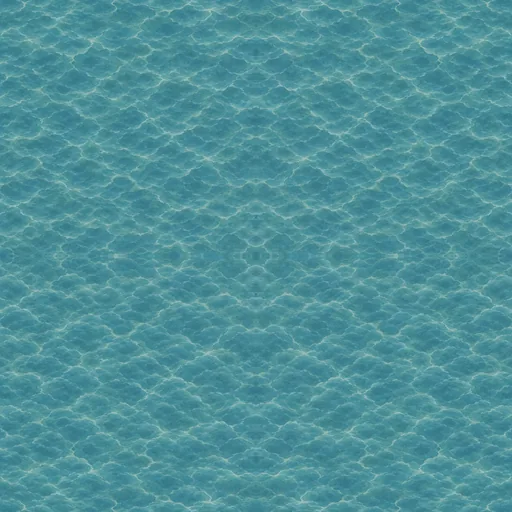
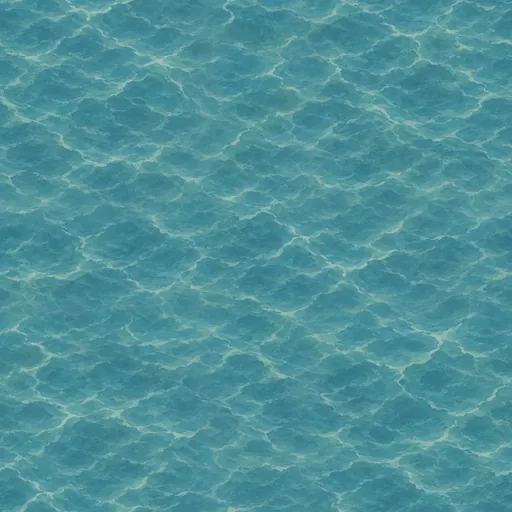
Map: clickable city images and text-sized labels on the admin map, team-colour outline instead of a ring, deed markers further along the side, sea tiles without visible repetition
Claude-Session: https://claude.ai/code/session_01GYZTpVpHB6EzyvMrXyiWEP

Changed region(s): [[0.0, 0.0, 1.0, 1.0]]

diff --git a/apps/web/src/pages/AdminMap.tsx b/apps/web/src/pages/AdminMap.tsx
@@ -1,7 +1,7 @@
 import { useCallback, useEffect, useMemo, useState } from "react";
 import { BOOKS } from "@lotw/domain";
 import { HEX_SIZE, fieldBounds, nodePos, TEAM_COLORS } from "../lib/hexmap";
-import { CoastOver, CoastUnder, HexTiles, IMG, SeaLayer, WorldSvg, useCoast } from "./MapLayers";
+import { CoastOver, CoastUnder, HexTiles, IMG, OutlineDefs, SeaLayer, WorldSvg, useCoast } from "./MapLayers";
 import { useViewport } from "../lib/useViewport";
 import { reportPage } from "../lib/perf";
 import { api, ApiError, type AdminCityDto, type MapEdgeDto, type MapHexDto, type MapNodeDto, type MyMapDto } from "../lib/api";
@@ -90,6 +90,7 @@ export function AdminMap({ gameId, hexes, nodes, edges, progress, cities, battle
         <div ref={vp.ref} {...vp.handlers} className="mapwrap">
           <SeaLayer vp={vp} />
           <WorldSvg vp={vp} bounds={bounds}>
+            <OutlineDefs colors={[...new Set((progress ?? []).map((tm) => tm.color))]} />
             <CoastUnder d={coast} size={size} />
             <HexTiles hexes={hexes} size={size} clipId="hexclip-admin" />
             <CoastOver d={coast} size={size} />
@@ -99,10 +100,10 @@ export function AdminMap({ gameId, hexes, nodes, edges, progress, cities, battle
               if (n.kind === "START") return <image key={"s" + n.key} href={IMG.start(n.teamIndex ?? 0)} x={p.x - START / 2} y={p.y - START * 0.58} width={START} height={START} />;
               if (n.kind === "CITY") {
                 const owner = ownerOf.get(n.key);
+                // Картинка города кликабельна сама (как у команды); владелец — обводка по контуру картинки цветом команды.
                 return (
-                  <g key={"c" + n.key}>
-                    {owner && <circle className="owner-ring" cx={p.x} cy={p.y - CITY * 0.1} r={CITY * 0.62} fill={owner.color} fillOpacity={0.35} stroke={owner.color} />}
-                    <image href={IMG.city(n.cityType)} x={p.x - CITY / 2} y={p.y - CITY * 0.6} width={CITY} height={CITY} />
+                  <g key={"c" + n.key} className="pick" onClick={() => { if (!vp.wasDrag()) setSelected(n); }}>
+                    <image className="city-hit" href={IMG.city(n.cityType)} x={p.x - CITY / 2} y={p.y - CITY * 0.6} width={CITY} height={CITY} filter={owner ? `url(#outline-${owner.color.slice(1)})` : undefined} />
                   </g>
                 );
               }
@@ -128,19 +129,23 @@ export function AdminMap({ gameId, hexes, nodes, edges, progress, cities, battle
                 const pick = () => { if (!vp.wasDrag()) setSelected(n); };
                 const at = `translate(${raw.x},${raw.y}) scale(${inv})`;
                 if (n.kind === "START") { const tm = progress?.find((x) => x.startNodeKey === n.key); const color = tm?.color ?? TEAM_COLORS[(n.teamIndex ?? 0) % TEAM_COLORS.length]!; return <g key={n.key} className="pick" transform={at} onClick={pick}><circle className="hit" r={14} fill="transparent" /><circle r={6} fill={color} stroke="var(--surface)" strokeWidth={2} /></g>; }
-                if (n.kind === "CITY") return (
+                if (n.kind === "CITY") {
+                  const label = `${book?.order}. ${book?.nameRu ?? ""}`;
+                  const lw = Math.ceil(label.length * 11 * 0.62) + 16;
+                  return (
                   <g key={n.key} className="pick" transform={at} onClick={pick}>
-                    <circle className="hit" r={Math.max(14, size * 0.6 * kk)} fill="transparent" />
+                    <circle className="hit" r={Math.max(14, size * 0.65 * kk) / ui} cy={-size * 0.1 * kk / ui} fill="transparent" />
                     {battleAt.has(n.key) && <circle className="quiet" r={size * 0.8 * kk} fill="none" stroke="var(--danger)" strokeWidth={3} strokeDasharray="6 4" />}
                     {showLabels ? (
                       <g className="quiet" transform={`translate(0,${size * 1.15 * kk * 0.48 / ui})`}>
-                        <rect x={-48} y={-10} width={96} height={20} rx={4} fill={sel ? "var(--accent)" : "var(--map-paper)"} stroke="var(--text)" strokeWidth={1} />
-                        <text textAnchor="middle" dy="0.35em" fontSize={11} fontWeight={700} fill={sel ? "var(--on-accent)" : "var(--text)"}>{book?.order}. {book?.nameRu}</text>
+                        <rect x={-lw / 2} y={-10} width={lw} height={20} rx={10} fill={sel ? "var(--accent)" : "var(--map-paper)"} stroke="var(--text)" strokeWidth={1} />
+                        <text textAnchor="middle" dy="0.35em" fontSize={11} fontWeight={700} fill={sel ? "var(--on-accent)" : "var(--text)"}>{label}</text>
                       </g>
                     ) : <g className="quiet"><circle r={8} fill={sel ? "var(--accent)" : "var(--surface)"} stroke="var(--text)" strokeWidth={1} /><text textAnchor="middle" dy="0.35em" fontSize={9} fontWeight={700} fill={sel ? "var(--on-accent)" : "var(--text)"}>{book?.order}</text></g>}
                     {seen.map((tm, i) => <circle key={tm.id} className="quiet" cx={14 - i * 9} cy={-14} r={4.5} fill={tm.color} stroke="var(--surface)" strokeWidth={1} />)}
                   </g>
-                );
+                  );
+                }
                 if (!showDots) return null;
                 return <g key={n.key} className="pick" transform={at} onClick={pick}><circle className="hit" r={12} fill="transparent" /><circle r={3} fill="rgba(31,27,22,.4)" />{seen.map((tm, i) => <circle key={tm.id} cx={8 - i * 7} cy={-8} r={3.5} fill={tm.color} stroke="var(--surface)" strokeWidth={0.8} />)}</g>;
               })}

diff --git a/apps/web/src/pages/TeamMap.tsx b/apps/web/src/pages/TeamMap.tsx
@@ -4,7 +4,7 @@ import { BOOKS } from "@lotw/domain";
 import { HEX_SIZE, fieldBounds, nodePos } from "../lib/hexmap";
 import { useViewport } from "../lib/useViewport";
 import type { EdgeTaskStatus, MyMapDto } from "../lib/api";
-import { CoastOver, CoastUnder, FogLayer, HexTiles, IMG, MapSymbols, SeaLayer, WorldSvg, useCoast } from "./MapLayers";
+import { CoastOver, CoastUnder, FogLayer, HexTiles, IMG, MapSymbols, OutlineDefs, SeaLayer, WorldSvg, useCoast } from "./MapLayers";
 import { Icon } from "../components/Icon";
 import { t } from "../lib/i18n";
 
@@ -39,6 +39,7 @@ export function TeamMap({ map, teamIndex, selectedTaskId, onSelect, onSelectCity
   const [ripple, setRipple] = useState<{ x: number; y: number; n: number } | null>(null);
   useEffect(() => { reportPage("map"); }, []);
   const coast = useCoast(map.hexes, size);
+  const owners = useMemo(() => [...new Set((map.cities ?? []).flatMap((c) => (c.owner ? [c.owner.color] : [])))], [map.cities]);
   const fogHexes = useMemo(() => map.hexes.filter((h) => h.lit === false), [map.hexes]);
 
   if (!bounds) return null;
@@ -66,6 +67,7 @@ export function TeamMap({ map, teamIndex, selectedTaskId, onSelect, onSelectCity
       <SeaLayer vp={vp} />
       <WorldSvg vp={vp} bounds={bounds}>
         <MapSymbols />
+        <OutlineDefs colors={owners} />
         <CoastUnder d={coast} size={size} />
         <HexTiles hexes={map.hexes} size={size} clipId="hexclip-team" />
         <CoastOver d={coast} size={size} />
@@ -90,8 +92,7 @@ export function TeamMap({ map, teamIndex, selectedTaskId, onSelect, onSelectCity
             const c = cityByKey.get(n.key);
             return (
               <g key={"c" + n.key} className="m-city" onClick={() => clickCity(n.key)}>
-                {c?.owner && <circle className="owner-ring" cx={p.x} cy={p.y - CITY * 0.1} r={CITY * 0.62} fill={c.owner.color} fillOpacity={0.35} stroke={c.owner.color} />}
-                <image className="city-hit" href={IMG.city(n.cityType)} x={p.x - CITY / 2} y={p.y - CITY * 0.6} width={CITY} height={CITY} />
+                <image className="city-hit" href={IMG.city(n.cityType)} x={p.x - CITY / 2} y={p.y - CITY * 0.6} width={CITY} height={CITY} filter={c?.owner ? `url(#outline-${c.owner.color.slice(1)})` : undefined} />
               </g>
             );
           }
@@ -145,8 +146,9 @@ export function TeamMap({ map, teamIndex, selectedTaskId, onSelect, onSelectCity
             const tk = taskByEdge.get([e.aKey, e.bKey].sort().join("|"));
             if (!tk || tk.status === "APPROVED") return null;
             const a = positions.get(e.aKey)!, b = positions.get(e.bKey)!;
-            const m = { x: (a.x + b.x) / 2, y: (a.y + b.y) / 2 };
-            const far = revealed.has(e.aKey) ? b : a;
+            // Метка дела стоит на двух третях стороны от известного перекрёстка, чтобы не наезжать на город.
+            const far = revealed.has(e.aKey) ? b : a, near = far === b ? a : b;
+            const m = { x: near.x + (far.x - near.x) * 0.66, y: near.y + (far.y - near.y) * 0.66 };
             const sel = tk.id === selectedTaskId;
             const r = sel ? R + 2 : R;
             return (

diff --git a/apps/web/src/styles/player.css b/apps/web/src/styles/player.css
@@ -13,10 +13,10 @@
 .sea-layer { position: absolute; inset: 0; overflow: hidden; pointer-events: none; background: #4F8BA6; }
 .sea-pos { position: absolute; left: 0; top: 0; width: calc(150% + 6 * var(--tile, 512px)); height: calc(150% + 6 * var(--tile, 512px)); transform-origin: 0 0; will-change: transform; }
 .sea-base, .sea-waves { position: absolute; inset: 0; background-image: var(--sea, url("/img/brand/sea-512.webp")); background-position: 0 0; background-size: var(--tile, 512px) var(--tile, 512px); background-repeat: repeat; }
-/* Вторая плитка сдвинута на полплитки (зеркальная плитка, повёрнутая на 180°, — это она же со сдвигом), без поворота:
-   поворот элемента давал дробные стыки и швы. Дрейф — трансформация композитора. */
-.sea-waves { opacity: .38; background-position: calc(var(--tile, 512px) / 2) calc(var(--tile, 512px) / 2); animation: sea-drift 70s linear infinite; will-change: transform; }
-@keyframes sea-drift { to { transform: translate(var(--tile, 512px), var(--tile, 512px)); } }
+/* Вторая плитка крупнее в 1.37 раза и плывёт: периоды двух слоёв не кратны, повтор рисунка глазу не виден.
+   Дрейф — трансформация композитора. */
+.sea-waves { opacity: .4; background-size: calc(var(--tile, 512px) * 1.37) calc(var(--tile, 512px) * 1.37); background-position: calc(var(--tile, 512px) / 3) calc(var(--tile, 512px) / 5); animation: sea-drift 90s linear infinite; will-change: transform; }
+@keyframes sea-drift { to { transform: translate(calc(var(--tile, 512px) * 1.37), calc(var(--tile, 512px) * 1.37)); } }
 @media (prefers-reduced-motion: reduce) { .sea-waves { animation: none; } }
 .coast { pointer-events: none; }
 .coast-wet { stroke-width: calc(1.2px / var(--k, 1)); }

diff --git a/apps/web/src/pages/MapLayers.tsx b/apps/web/src/pages/MapLayers.tsx
@@ -24,7 +24,7 @@ export type Viewport = { view: View; viewRef: { current: View }; subscribe: (fn:
  * когда отклонение выходит за 0.7…1.4 или жест зафиксирован, плитка перекладывается под новый масштаб.
  * Сдвиг привязан к координатам карты: точка (0,0) карты всегда на углу плитки.
  */
-const SEA_WORLD_TILE = 156;
+const SEA_WORLD_TILE = 220;
 export function SeaLayer({ vp }: { vp: Viewport }) {
   const pos = useRef<HTMLDivElement>(null);
   const [base, setBase] = useState(vp.view.k);
@@ -224,6 +224,25 @@ export function FogLayer({ vp, size = HEX_SIZE, fogHexes }: { vp: Viewport; size
   }, [size, vp]);
 
   return <canvas ref={ref} className="fx-layer" aria-hidden />;
+}
+
+/**
+ * Обводка картинки города цветом команды: контур по прозрачности картинки (расширение альфа-канала),
+ * а не круг вокруг. Один фильтр на команду; толщина в единицах карты, растёт вместе с картой.
+ */
+export function OutlineDefs({ colors, width = 1.6 }: { colors: string[]; width?: number }) {
+  return (
+    <defs>
+      {colors.map((color) => (
+        <filter key={color} id={`outline-${color.slice(1)}`} x="-20%" y="-20%" width="140%" height="140%" colorInterpolationFilters="sRGB">
+          <feMorphology in="SourceAlpha" operator="dilate" radius={width} result="grow" />
+          <feFlood floodColor={color} result="color" />
+          <feComposite in="color" in2="grow" operator="in" result="ring" />
+          <feMerge><feMergeNode in="ring" /><feMergeNode in="SourceGraphic" /></feMerge>
+        </filter>
+      ))}
+    </defs>
+  );
 }
 
 const TERRAINS = ["desert", "hills", "meadow", "mountains", "water", "oasis"];
